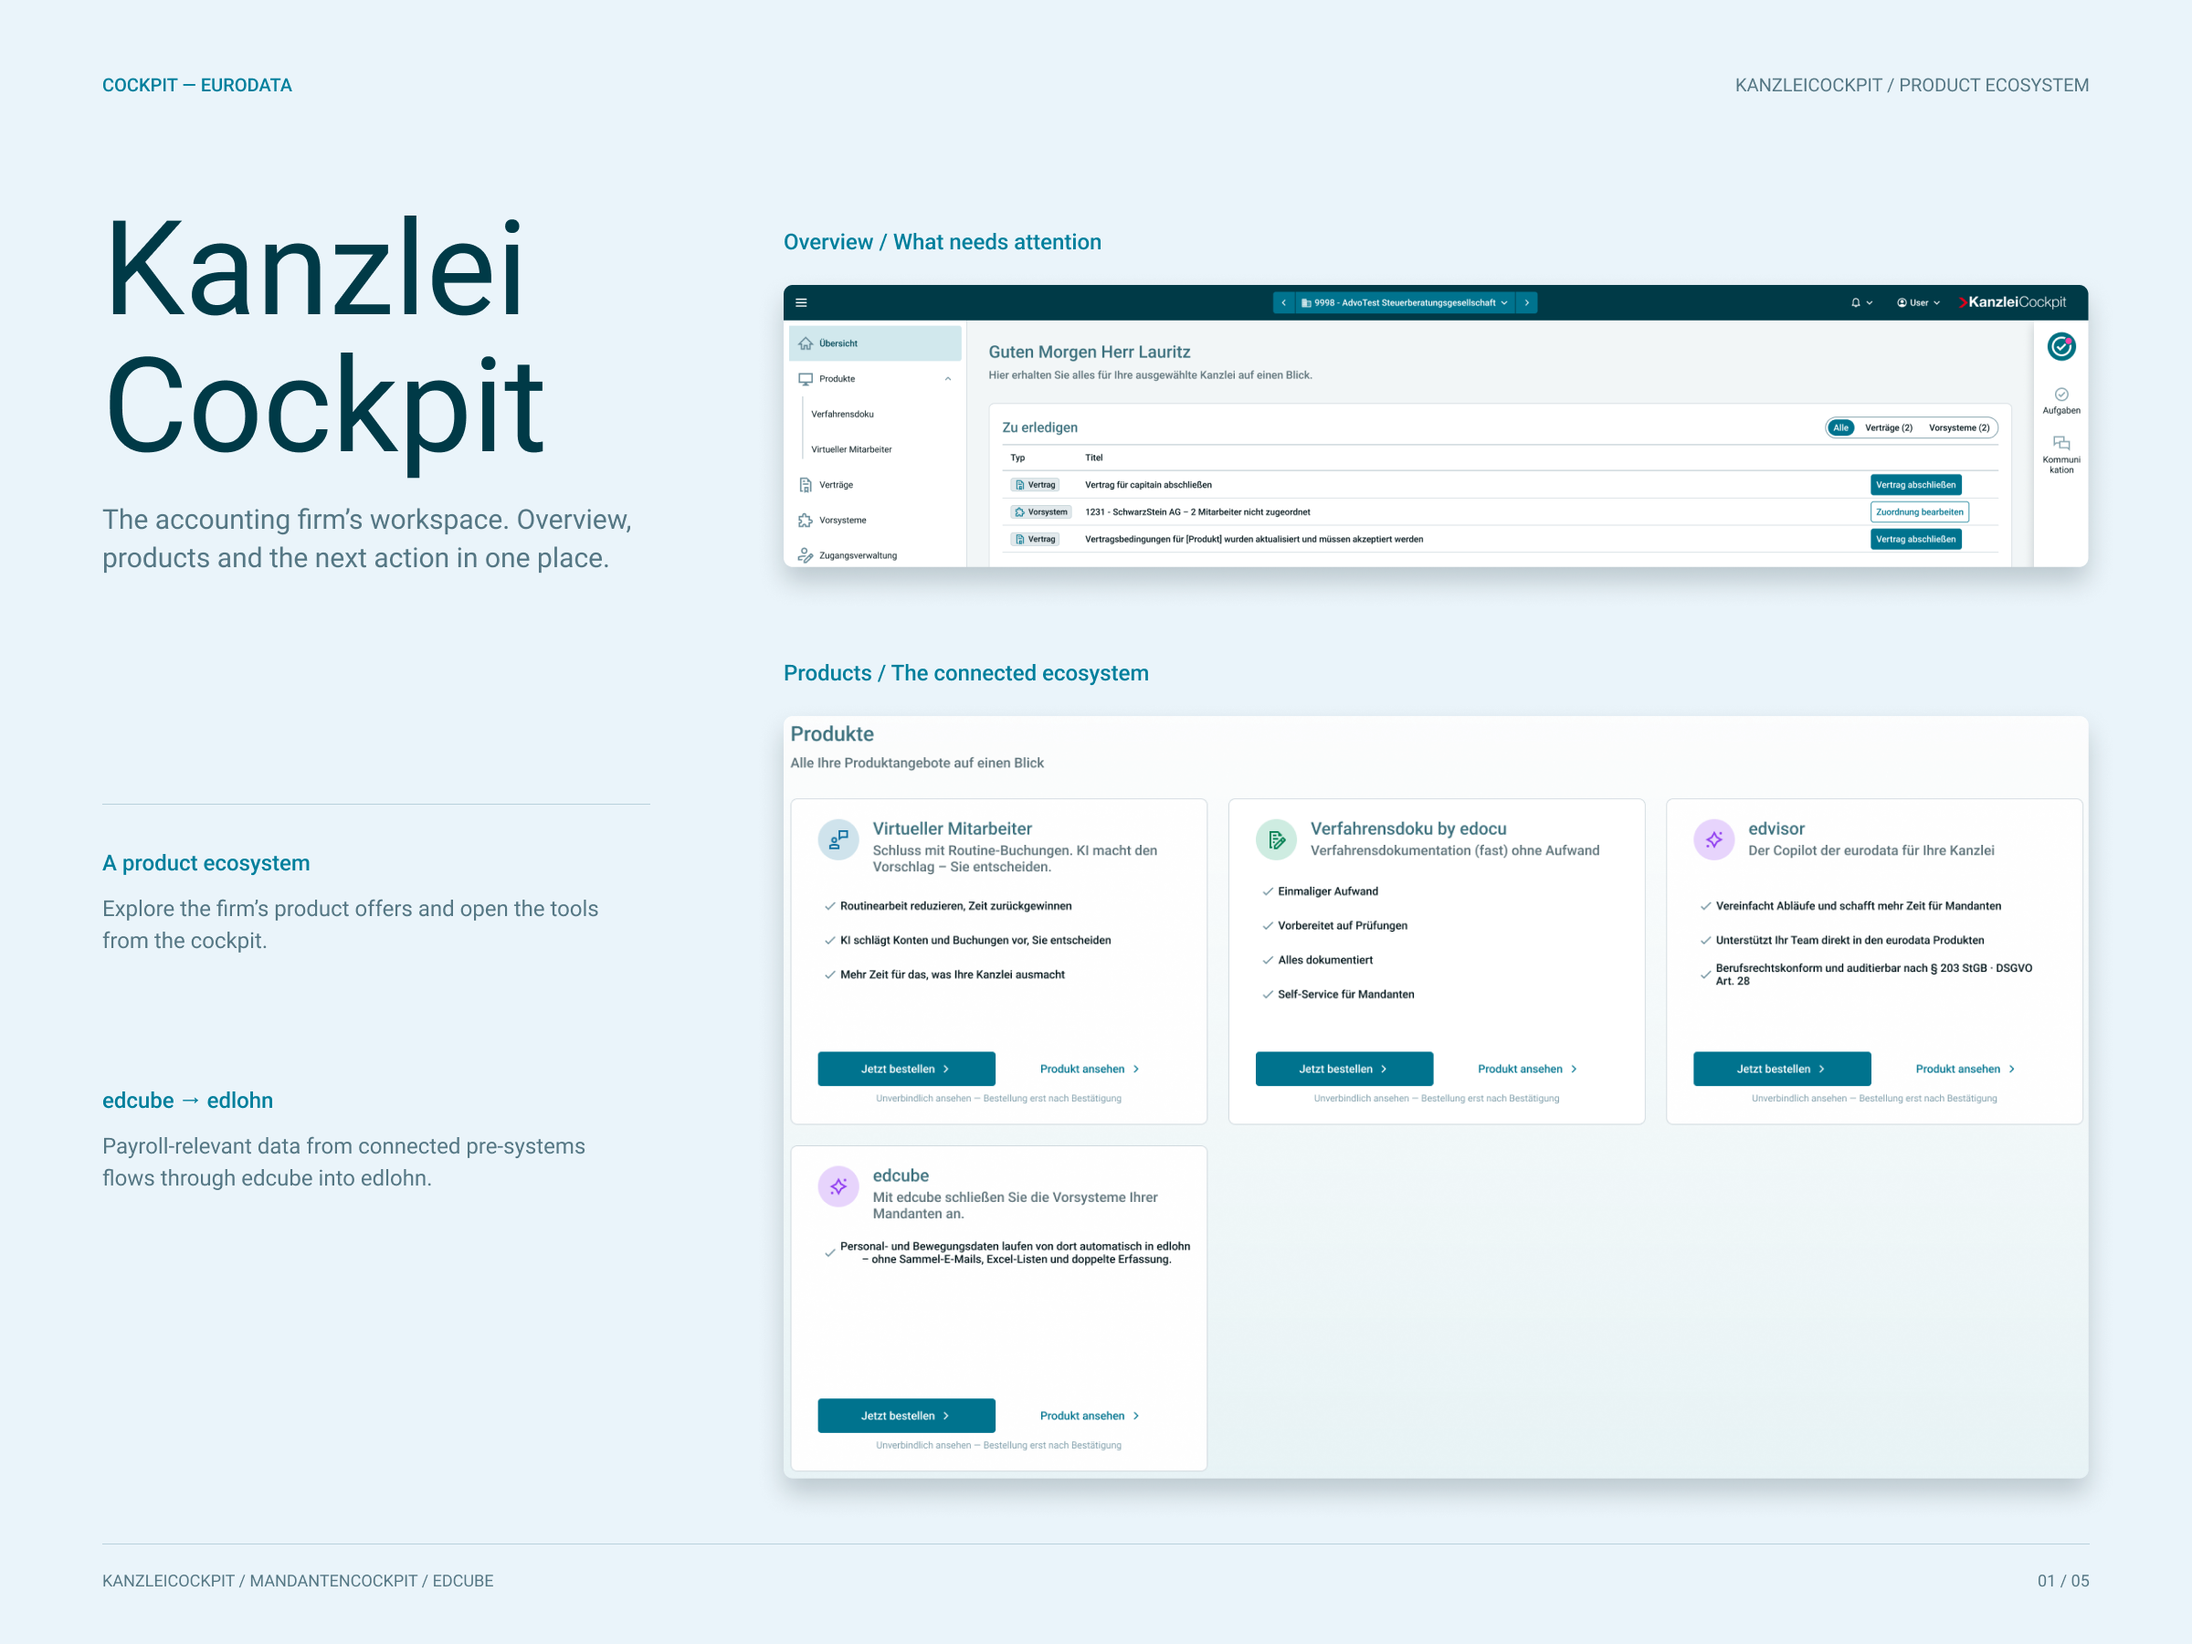
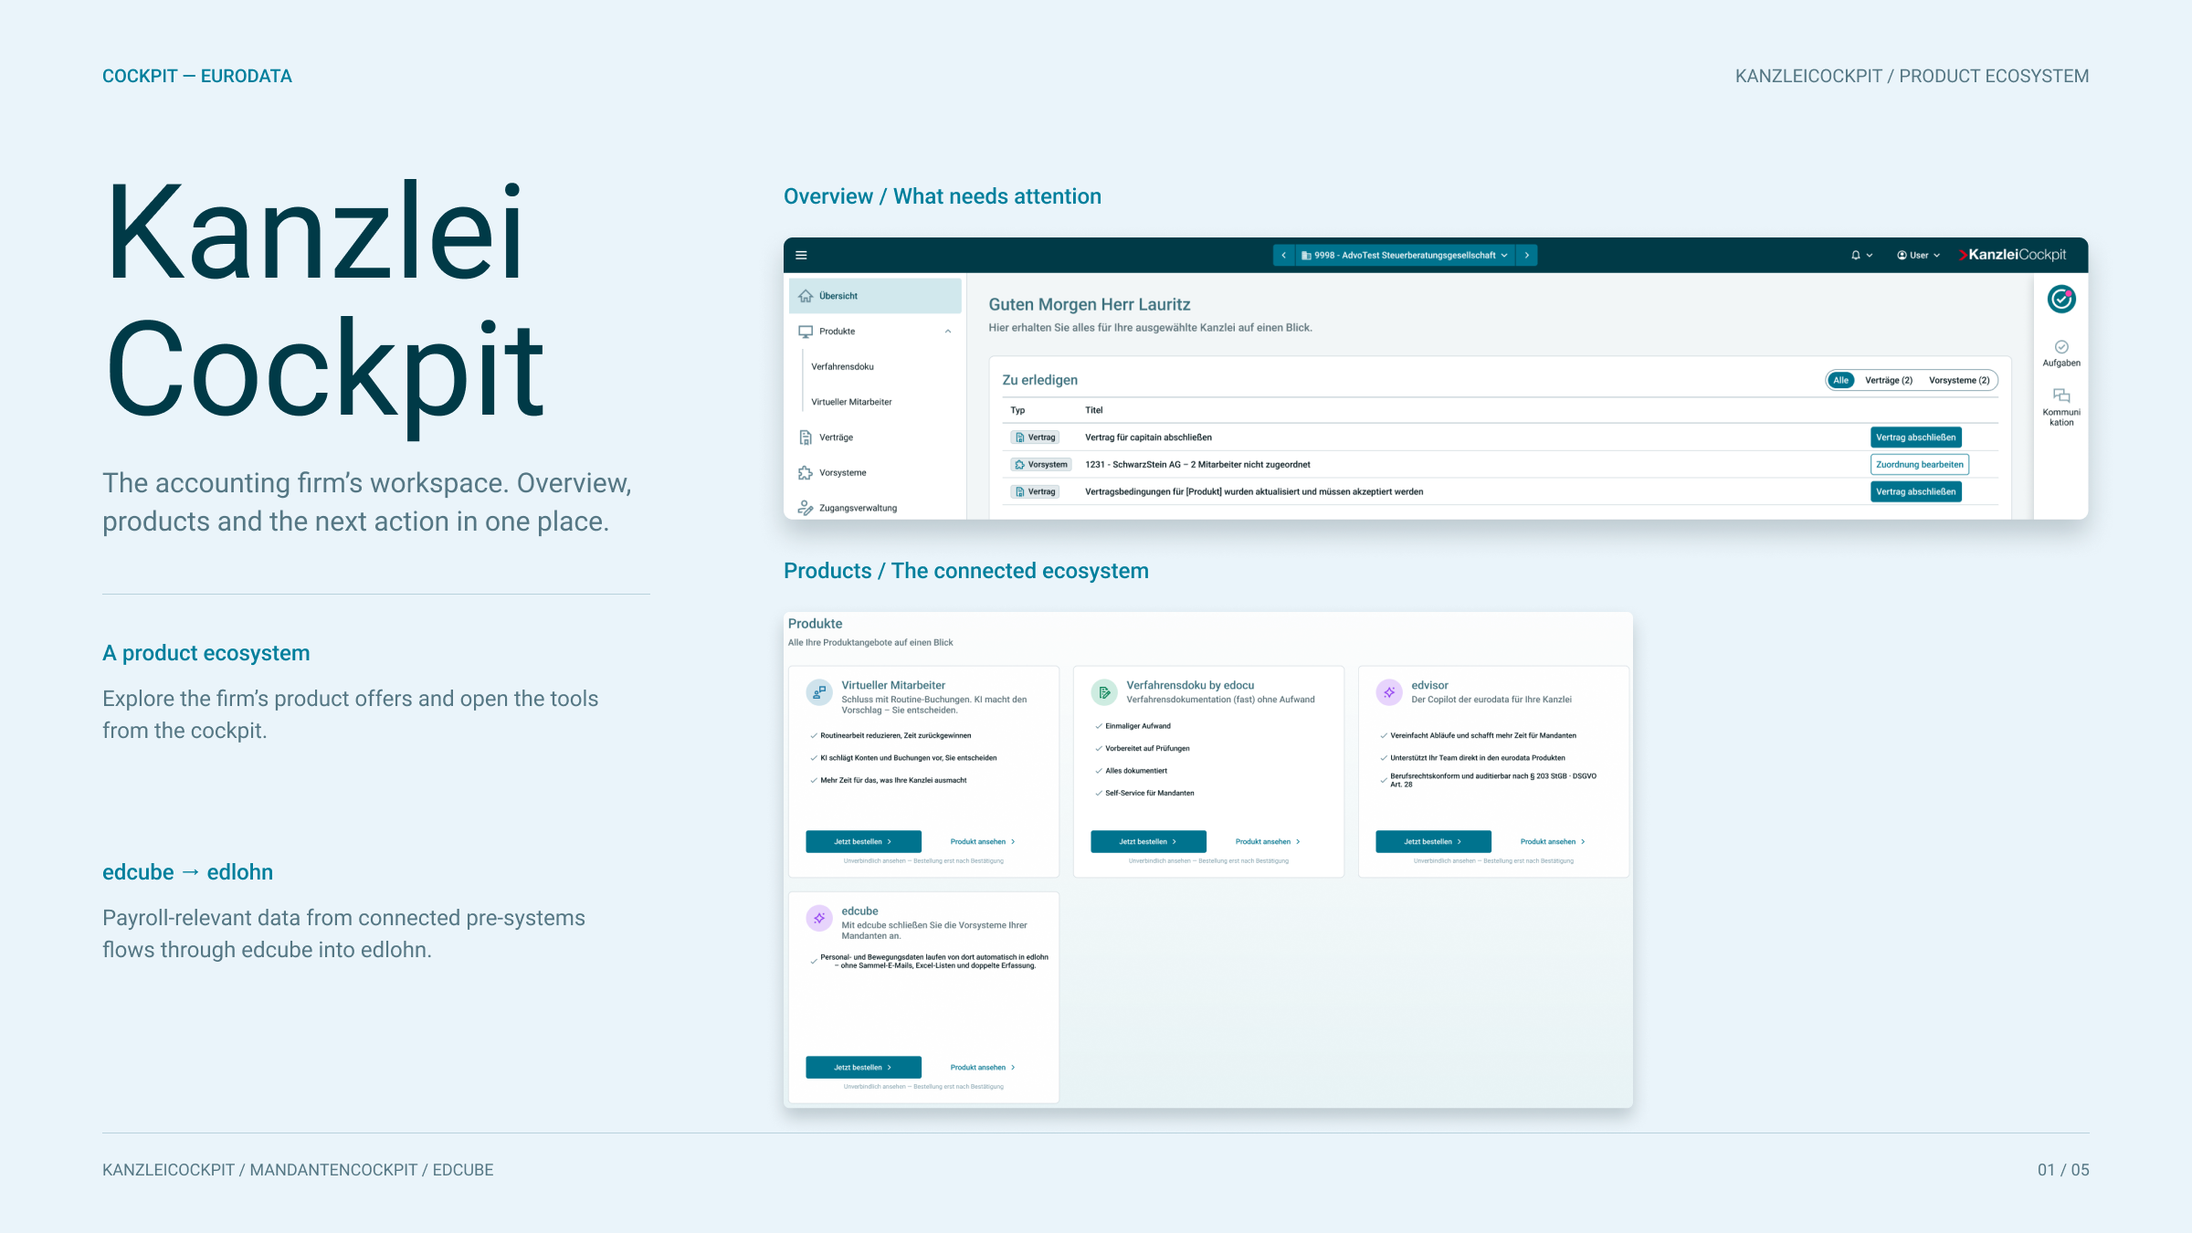
Update the TMS and Edcube project boards
Replace the boards with the new 16:9 images and drop the Edcube contracts board that is no longer in the set.

diff --git a/src/content/portfolio.ts b/src/content/portfolio.ts
@@ -111,7 +111,7 @@ export const projects: PortfolioProject[] = [
     summary:
       "Edcube connects an accounting firm's pre-systems, such as Personio, to edlohn, so payroll-relevant data flows in automatically. Designed across KanzleiCockpit and MandantenCockpit for eurodata.",
     details: [
-      "KanzleiCockpit gives the firm one workspace for what needs attention, product contracts, employee access and the connected product ecosystem.",
+      "KanzleiCockpit gives the firm one workspace for what needs attention and the connected product ecosystem.",
       "Firms invite clients to MandantenCockpit, where clients authorize their Personio connection with credential guidance built into the flow.",
       "Data can be sent on a monthly schedule or manually, with a full transfer history and a guided flow for matching employees between systems.",
     ],
@@ -121,31 +121,25 @@ export const projects: PortfolioProject[] = [
       {
         src: "/projects/Edcube/KanzleiCockpit overview and ecosystem.png",
         width: 2400,
-        height: 1800,
+        height: 1350,
         alt: "KanzleiCockpit overview with open tasks and the connected product ecosystem",
-      },
-      {
-        src: "/projects/Edcube/Contracts and employee access.png",
-        width: 2400,
-        height: 2160,
-        alt: "KanzleiCockpit product contracts and employee access management",
       },
       {
         src: "/projects/Edcube/Invitation and Personio authorization.png",
         width: 2400,
-        height: 2160,
+        height: 1350,
         alt: "MandantenCockpit invitation and Personio authorization flow",
       },
       {
         src: "/projects/Edcube/Integration transmission and history.png",
         width: 2400,
-        height: 2160,
+        height: 1350,
         alt: "Edcube pre-system overview, transmission schedule and history",
       },
       {
         src: "/projects/Edcube/Employee matching and task resolution.png",
         width: 2400,
-        height: 2320,
+        height: 1350,
         alt: "Employee matching review and task resolution in KanzleiCockpit",
       },
     ],
@@ -171,31 +165,31 @@ export const projects: PortfolioProject[] = [
       {
         src: "/projects/tms/TMS product overview.png",
         width: 2400,
-        height: 1800,
+        height: 1350,
         alt: "Overview of the Backup Buddy and HACCP features in TMS",
       },
       {
         src: "/projects/tms/Backup Buddy overview.png",
         width: 2400,
-        height: 1800,
+        height: 1350,
         alt: "Backup Buddy client overview and coverage arrangement",
       },
       {
         src: "/projects/tms/Backup Buddy assignment workflow.png",
         width: 2400,
-        height: 2160,
+        height: 1350,
         alt: "Backup Buddy five-step client handover workflow",
       },
       {
         src: "/projects/tms/HACCP form building and rules.png",
         width: 2400,
-        height: 1800,
+        height: 1350,
         alt: "HACCP form builder with conditional rules and subtasks",
       },
       {
         src: "/projects/tms/HACCP forms and documentation.png",
         width: 2400,
-        height: 1800,
+        height: 1350,
         alt: "HACCP forms list and daily documentation records",
       },
     ],
